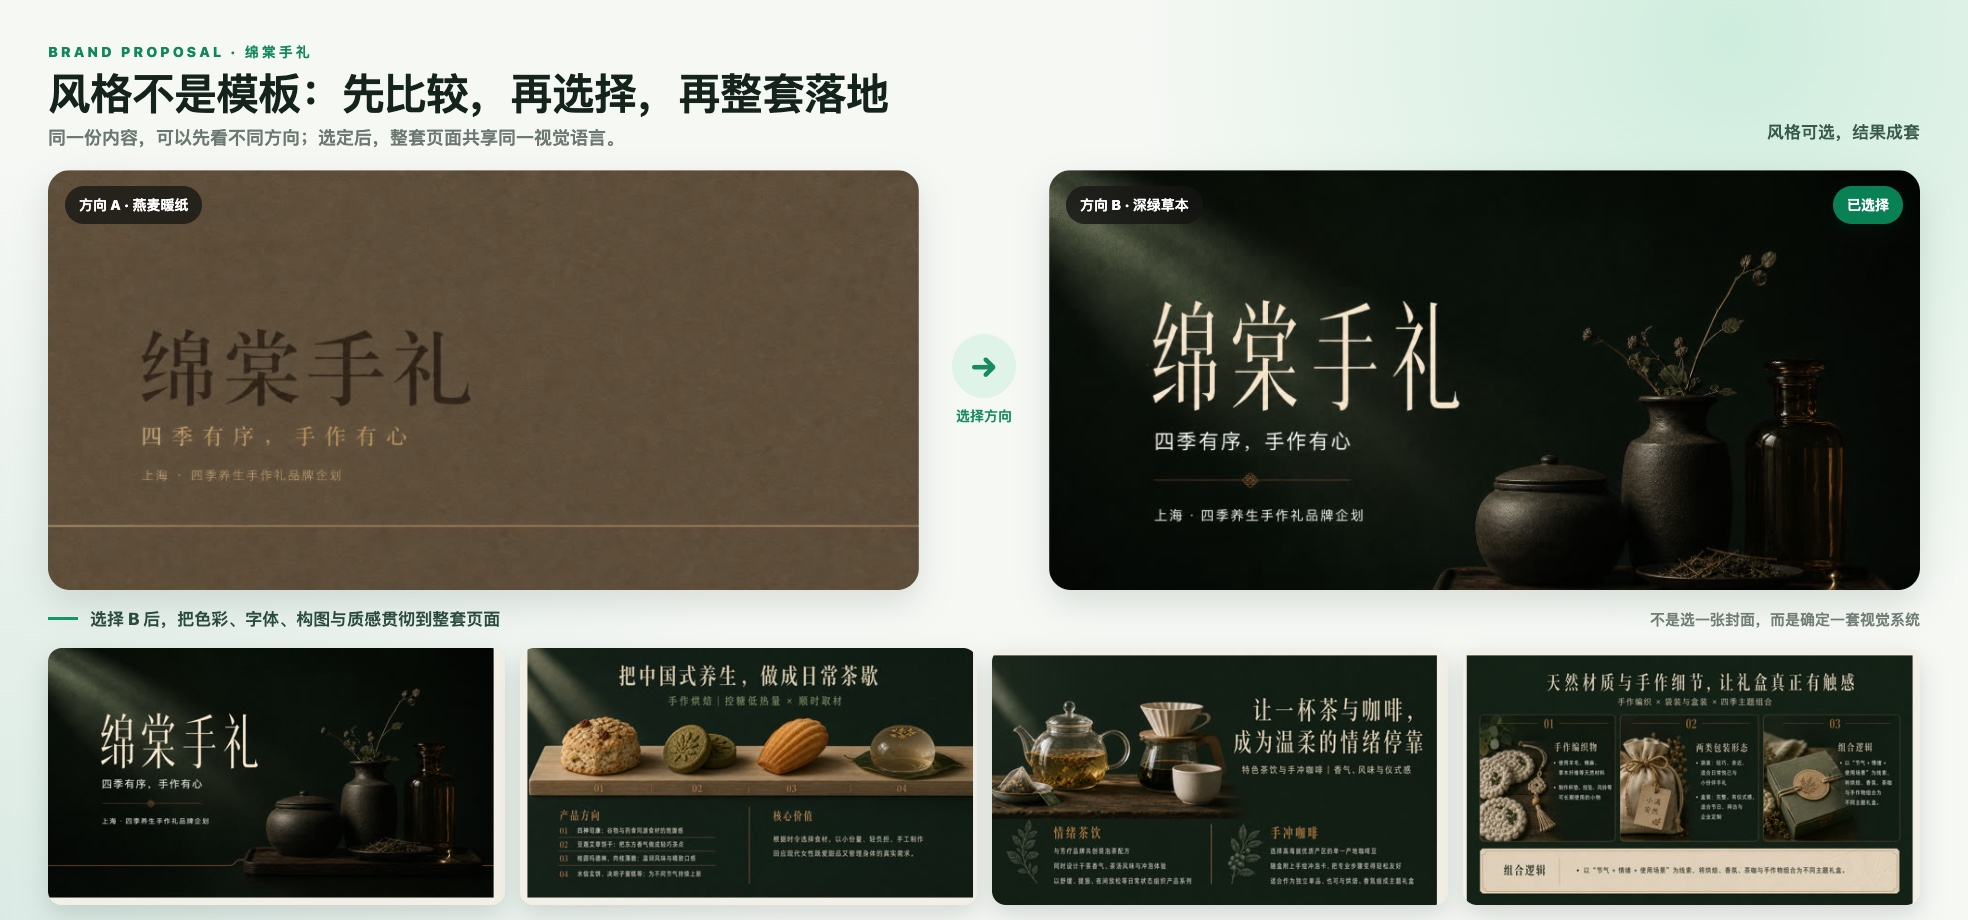
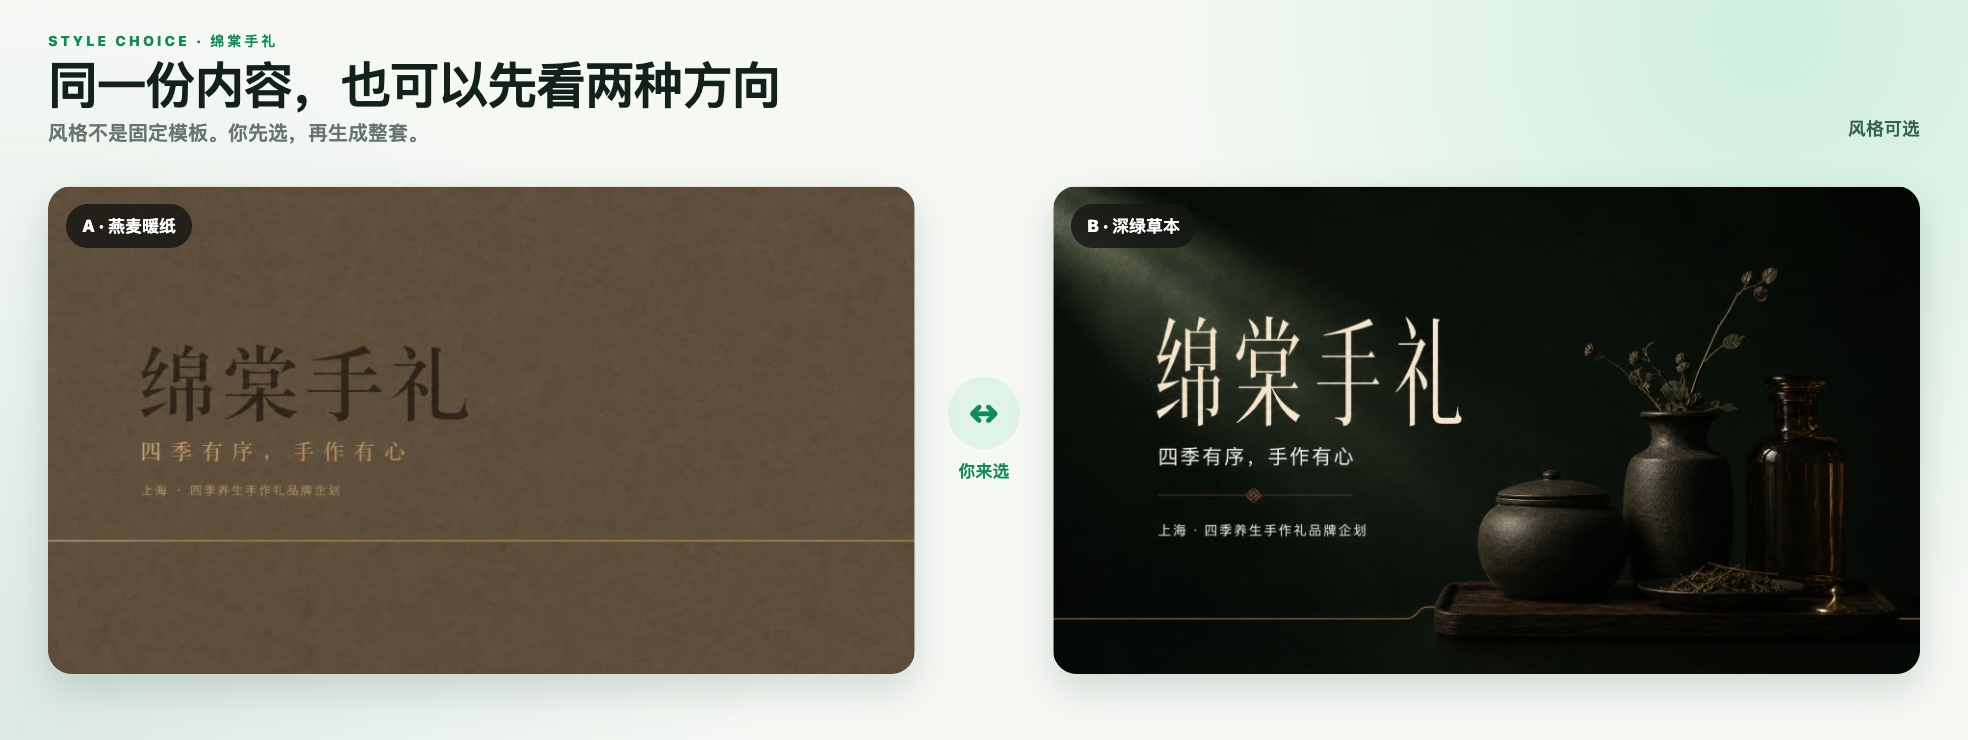
docs: make each homepage visual tell one story

diff --git a/README.md b/README.md
@@ -1,6 +1,8 @@
 <div align="center">
 
-# PPT God
+<h1>
+  <img src="./docs/readme-assets/ppt-god-logo.png" alt="PPT God — 古希腊掌管 PPT 的神" width="340" />
+</h1>
 
 ### 让 AI PPT 从“能生成”，走向“敢交付”
 
@@ -8,21 +10,25 @@
 
 </div>
 
-![PPT God：整套一致、逐页可控、品牌准确的 PPT 工作流](./docs/readme-assets/hero-showcase.jpg?v=20260719-native)
+![PPT God：封面、数据与场景页面保持跨页一致](./docs/readme-assets/hero-showcase.jpg?v=20260719-single-message)
 
 <p align="center"><sub>首屏中的 Apple Vision Pro 为公开资料 Demo；产品界面经过脱敏，展示内容均可公开。</sub></p>
 
-## 三个公开案例，分别证明三件事
+## 四个关键能力，直接看结果
 
-首屏的 Apple Vision Pro 展示专业品牌与产品交付；下面两个案例分别回答“风格如何选择并落地”与“长内容如何变成课件”。
+你可以直接看到一套 PPT 是否跨页一致，品牌素材是否准确，风格是否可选，以及长内容如何先形成结构。
 
-### 品牌提案：风格可选，也能整套落地
+### 品牌素材：原 Logo、原产品图，准确进入最终页面
 
-![绵棠手礼：从两套风格提案到整套品牌页面](./docs/readme-assets/brand-style-case.jpg?v=20260719-full-width)
+![Apple Vision Pro：原始 Logo 与产品图准确进入最终 PPT](./docs/readme-assets/apple-brand-proof.jpg?v=20260719-single-message)
 
-### 课程课件：长内容先建结构，再形成节奏
+### 风格选择：同一份内容，也可以先看两种方向
 
-![古希腊神话：从长材料、章节结构到成套课程课件](./docs/readme-assets/course-structure-case.jpg?v=20260719-full-width)
+![绵棠手礼：同一份内容的两种风格方向](./docs/readme-assets/brand-style-case.jpg?v=20260719-single-message)
+
+### 内容规划：长材料先变成结构，再进入页面
+
+![古希腊神话：长材料经过内容规划变成四篇章结构](./docs/readme-assets/course-structure-case.jpg?v=20260719-single-message)
 
 ## 你真正买到的，是四种确定性
 